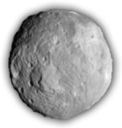
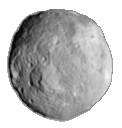
Add shadows to asteroids and make some tweaks to title and help overlay.

Changed region(s): [[0.0246, 0.0, 0.9836, 1.0]]

diff --git a/EventHorizonRider.Core/Components/SpaceComponents/RingFactory.cs b/EventHorizonRider.Core/Components/SpaceComponents/RingFactory.cs
@@ -22,7 +22,7 @@ namespace EventHorizonRider.Core.Components.SpaceComponents
         {
             viewportCenter = new Vector2(DeviceInfo.LogicalWidth / 2f, DeviceInfo.LogicalHeight / 2f);
 
-            asteroids = LoadData(content, "asteroid", 4);
+            asteroids = LoadData(content, "asteroid", 4, hasShadow:true);
             asteroids.DensityRange = Range.Create(15, 35);
             asteroids.ScaleRange = Range.Create(0.2f, 0.8f);
             asteroids.RadiusOffsetJitter = 10f;
@@ -38,6 +38,7 @@ namespace EventHorizonRider.Core.Components.SpaceComponents
             };
 
             sparseAsteroids = new RingTexturesInfo();
+            sparseAsteroids.ShadowTextures = asteroids.ShadowTextures;
             sparseAsteroids.Textures = asteroids.Textures;
             sparseAsteroids.CollisionInfos = asteroids.CollisionInfos;
             sparseAsteroids.DensityRange = Range.Create(5, 10);
@@ -54,7 +55,7 @@ namespace EventHorizonRider.Core.Components.SpaceComponents
                 Color.Beige,
             };
 
-            dust = LoadData(content, "dust", 1);
+            dust = LoadData(content, "dust", 1, hasShadow:false);
             dust.DensityRange = Range.Create(85, 95);
             dust.ScaleRange = Range.Create(0.3f, 1.2f);
             dust.RadiusOffsetJitter = 10f;
@@ -73,17 +74,19 @@ namespace EventHorizonRider.Core.Components.SpaceComponents
             startRadius = 700;
         }
 
-        private RingTexturesInfo LoadData(ContentManager content, string imageBaseName, int count)
+        private RingTexturesInfo LoadData(ContentManager content, string imageBaseName, int count, bool hasShadow)
         {
             var texturesInfo = new RingTexturesInfo
             {
                 Textures = new Texture2D[count],
+                ShadowTextures = hasShadow? new Texture2D[count] : null,
                 CollisionInfos = new CollisionInfo[count],
             };
 
             for (var i = 0; i < count; i++)
             {
                 texturesInfo.Textures[i] = content.Load<Texture2D>(@"Images\" + imageBaseName + "_" + (i + 1));
+                if (hasShadow) texturesInfo.ShadowTextures[i] = content.Load<Texture2D>(@"Images\" + imageBaseName + "_shadow_" + (i + 1));
                 texturesInfo.CollisionInfos[i] = CollisionDetection.GetCollisionInfo(texturesInfo.Textures[i], resolution:DeviceInfo.DetailLevel.HasFlag(DetailLevel.CollisionDetectionFull)? 1f : 0.75f);
             }
 

diff --git a/EventHorizonRider.Core/Components/SpaceComponents/Ring.cs b/EventHorizonRider.Core/Components/SpaceComponents/Ring.cs
@@ -101,6 +101,7 @@ namespace EventHorizonRider.Core.Components.SpaceComponents
                     var ringObject = new RingObject
                     {
                         Texture = texturesInfo.Textures[textureIndex],
+                        ShadowTexture = texturesInfo.ShadowTextures != null ? texturesInfo.ShadowTextures[textureIndex] : null,
                         CollisionInfo = texturesInfo.CollisionInfos[textureIndex],
                         Rotation = MathHelper.WrapAngle((float) random.NextDouble()*MathHelper.TwoPi),
                         RotationRate = (float) random.NextDouble()*MathHelper.TwoPi/4f*(random.Next(2) == 0 ? -1f : 1f),
@@ -185,6 +186,18 @@ namespace EventHorizonRider.Core.Components.SpaceComponents
         {
             foreach (var ringObject in ringObjects)
             {
+                if (ringObject.ShadowTexture != null)
+                {
+                    spriteBatch.Draw(
+                        ringObject.ShadowTexture,
+                        ringObject.Position + new Vector2(30, 30) * ringObject.Scale, // TODO: where to get shadow offset?
+                        origin: ringObject.Origin,
+                        color: Color.White * 0.8f,
+                        rotation: ringObject.Rotation,
+                        depth: ringObject.RelativeDepth + Depth - 0.000001f, // TODO: where to get this depth fudge factor?
+                        scale: ringObject.Scale);
+                }
+
                 spriteBatch.Draw(
                     ringObject.Texture,
                     ringObject.Position,

diff --git a/EventHorizonRider.Core/Components/ForegroundComponents/Title.cs b/EventHorizonRider.Core/Components/ForegroundComponents/Title.cs
@@ -8,6 +8,8 @@ namespace EventHorizonRider.Core.Components.ForegroundComponents
     internal class Title : ComponentBase
     {
         private Texture2D texture;
+        private Vector2 position;
+        private Vector2 origin;
 
         private float alpha = 1f;
 
@@ -19,6 +21,9 @@ namespace EventHorizonRider.Core.Components.ForegroundComponents
         protected override void LoadContentCore(ContentManager content, GraphicsDevice graphics)
         {
             texture = content.Load<Texture2D>(@"Images\title");
+
+            position = new Vector2(DeviceInfo.LogicalWidth / 2f, DeviceInfo.LogicalHeight / 2f);
+            origin = new Vector2(texture.Width / 2f, texture.Height / 2f);
         }
 
         protected override void UpdateCore(GameTime gameTime, InputState inputState)
@@ -38,7 +43,7 @@ namespace EventHorizonRider.Core.Components.ForegroundComponents
         {
             if (Visible)
             {
-                spriteBatch.Draw(texture, position: Vector2.Zero, color: Color.White * alpha, depth: Depth);
+                spriteBatch.Draw(texture, position, origin: origin, color: Color.White * alpha, depth: Depth, scale:new Vector2(1.01f));
             }
         }
     }

diff --git a/EventHorizonRider.Core/Components/SpaceComponents/RingObject.cs b/EventHorizonRider.Core/Components/SpaceComponents/RingObject.cs
@@ -13,6 +13,7 @@ namespace EventHorizonRider.Core.Components.SpaceComponents
     {
         public float RelativeDepth { get; set; }
         public Texture2D Texture { get; set; }
+        public Texture2D ShadowTexture { get; set; }
         public float Rotation { get; set; }
         public Vector2 Origin { get; set; }
         public Vector2 Scale { get; set; }

diff --git a/EventHorizonRider.Core/Engine/States/StartingState.cs b/EventHorizonRider.Core/Engine/States/StartingState.cs
@@ -28,7 +28,7 @@ namespace EventHorizonRider.Core.Engine.States
 
             gameContext.Root.Music.Start();
 
-            gameContext.Root.Foreground.ControlsHelp.Hide(speed:0.4f);
+            gameContext.Root.Foreground.ControlsHelp.Hide(speed:0.2f);
 
             gameContext.GameState = new RunningState();
         }

diff --git a/EventHorizonRider.Core/Components/ForegroundComponents/ControlsHelp.cs b/EventHorizonRider.Core/Components/ForegroundComponents/ControlsHelp.cs
@@ -7,7 +7,7 @@ namespace EventHorizonRider.Core.Components.ForegroundComponents
 {
     internal class ControlsHelp : ComponentBase
     {
-        private const float MaxAlpha = 0.7f;
+        private const float MaxAlpha = 0.3f;
 
         private Vector2 helpLeftPosition;
         private Texture2D helpLeft;

diff --git a/EventHorizonRider.Core/Components/SpaceComponents/RingTexturesInfo.cs b/EventHorizonRider.Core/Components/SpaceComponents/RingTexturesInfo.cs
@@ -7,6 +7,7 @@ namespace EventHorizonRider.Core.Components.SpaceComponents
     internal class RingTexturesInfo
     {
         public Texture2D[] Textures { get; set; }
+        public Texture2D[] ShadowTextures { get; set; }
         public CollisionInfo[] CollisionInfos { get; set; }
 
         /// <summary>
